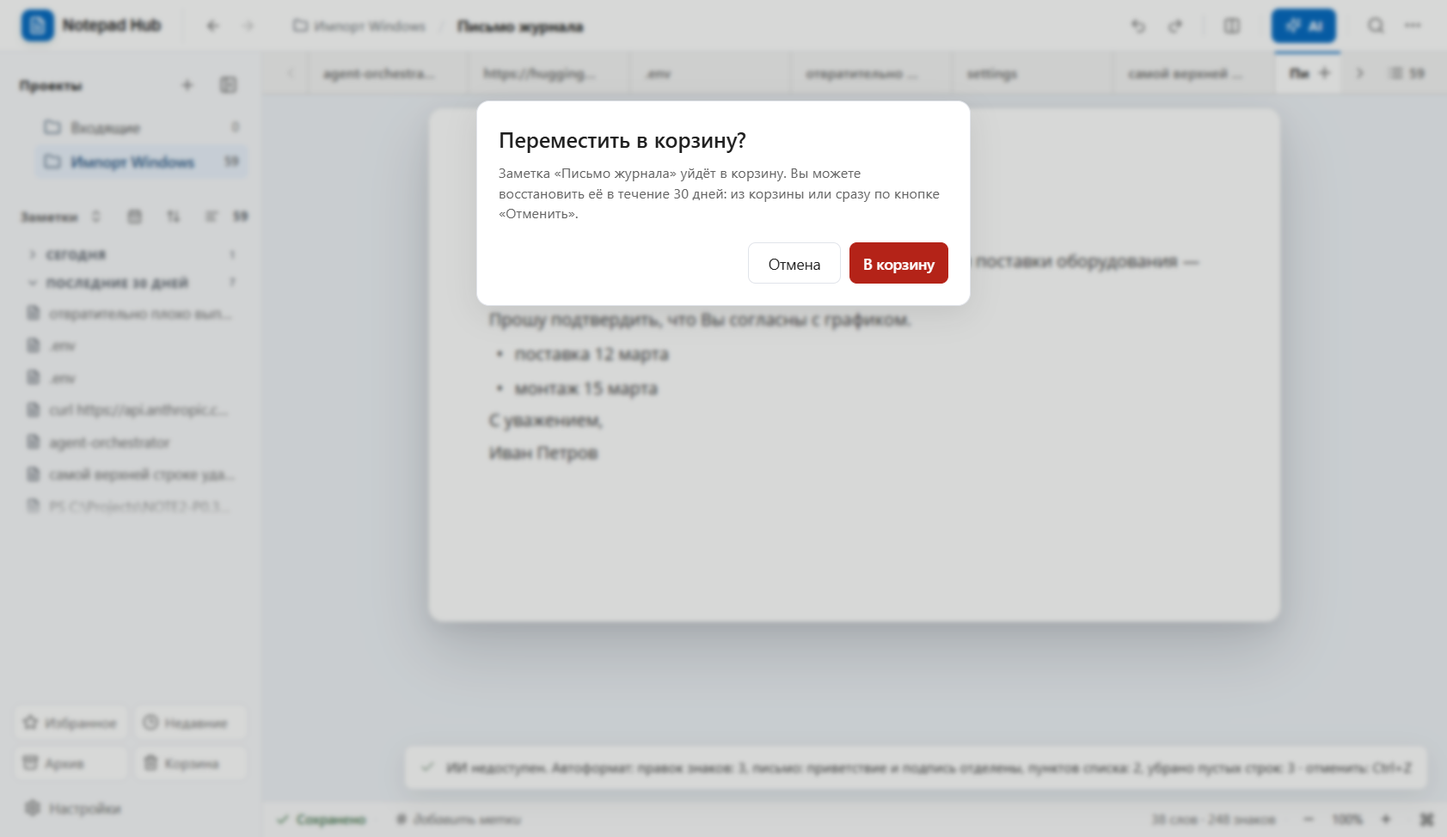
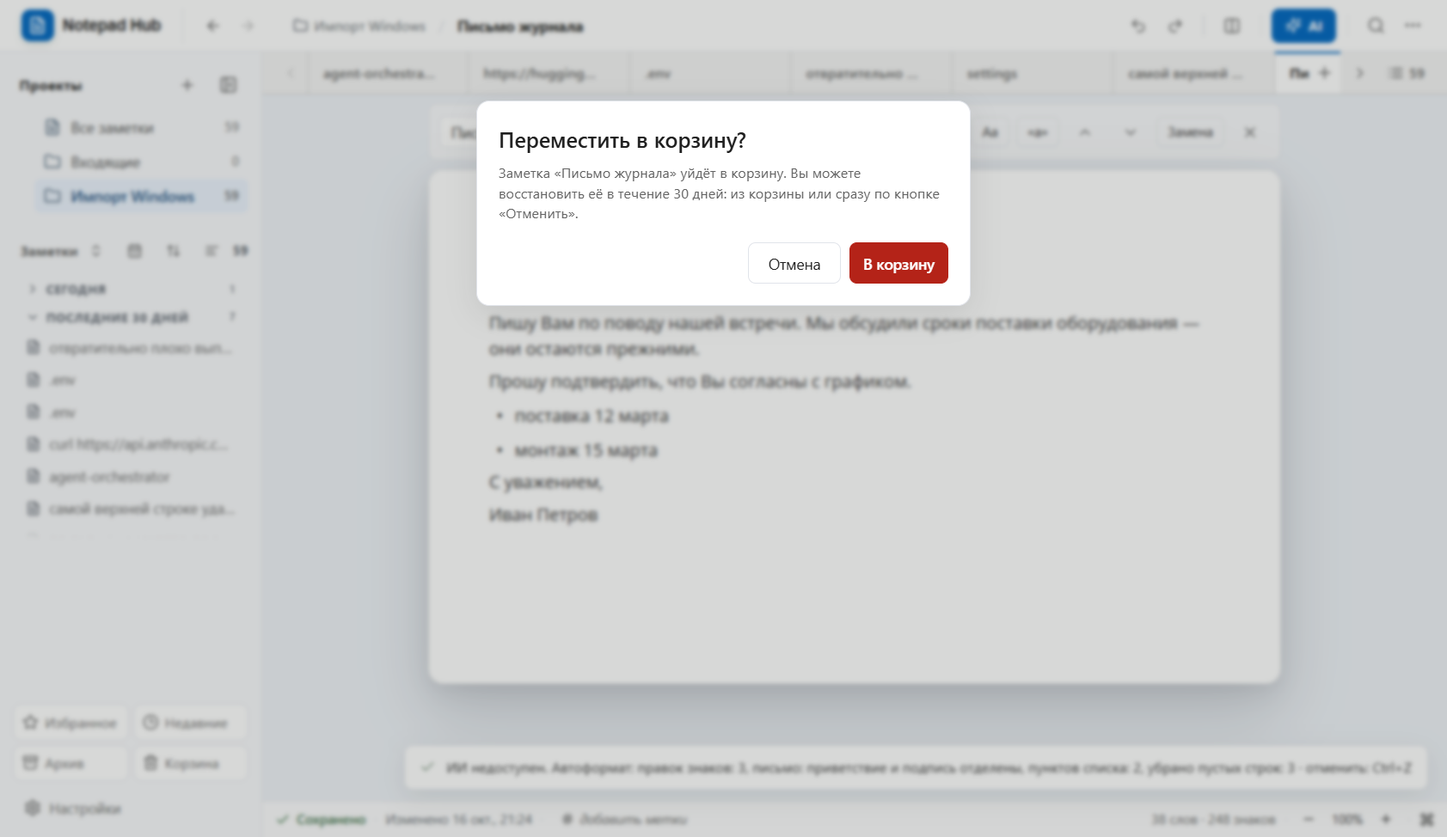
QuickNote ideas: all notes row, found word lit in the opened note, modified time, focus mode (F11)

diff --git a/ui/src/App.tsx b/ui/src/App.tsx
@@ -334,13 +334,14 @@ export default function App({ initial, sync }: { initial: LoadedHost; sync: Host
   }, [docs]);
   const [query, setQuery] = useState("");
   const [folder, setFolder] = useState(initialState.folder);
-  const [noteView, setNoteView] = useState<"folder" | "pinned" | "recent" | "archive" | "trash">("folder");
+  const [noteView, setNoteView] = useState<"folder" | "all" | "pinned" | "recent" | "archive" | "trash">("folder");
   const [folders, setFolders] = useState(initialState.folders);
   const [parents, setParents] = useState<Record<string, string>>(initial.parents);
   const [closedProjects, setClosedProjects] = useState<string[]>(() => { try { const v = JSON.parse(window.localStorage.getItem("nh4-closed-projects") ?? "[]") as unknown; return Array.isArray(v) ? v.filter((x): x is string => typeof x === "string") : []; } catch { return []; } });
   const [subNotes, setSubNotes] = useState(() => { try { return window.localStorage.getItem("nh4-sub-notes") !== "0"; } catch { return true; } });
   const [dense, setDense] = useState(() => { try { return window.localStorage.getItem("nh4-dense") === "1"; } catch { return false; } });
   useEffect(() => { try { window.localStorage.setItem("nh4-closed-projects", JSON.stringify(closedProjects)); window.localStorage.setItem("nh4-sub-notes", subNotes ? "1" : "0"); window.localStorage.setItem("nh4-dense", dense ? "1" : "0"); } catch { /* optional */ } }, [closedProjects, subNotes, dense]);
+  const [focusMode, setFocusMode] = useState(false);
   const [dragProject, setDragProject] = useState<string | null>(null);
   const [dropTarget, setDropTarget] = useState<string | null>(null);
   const [dark, setDark] = useState(initialState.dark);
@@ -350,7 +351,8 @@ export default function App({ initial, sync }: { initial: LoadedHost; sync: Host
   const [zoom, setZoom] = useState(() => { try { const v = Number(localStorage.getItem("nh4-zoom")); return v >= 70 && v <= 200 ? v : 100; } catch { return 100; } });
   useEffect(() => { try { localStorage.setItem("nh4-zoom", String(zoom)); } catch { /* storage may be unavailable */ } }, [zoom]);
   const [tagFilter, setTagFilter] = useState<string | null>(null);
-  const [find, setFind] = useState<null | { replace: boolean }>(null);
+  const [find, setFind] = useState<null | { replace: boolean; term?: string }>(null);
+  const pendingFindRef = useRef("");
   const [selectedSearchIndex, setSelectedSearchIndex] = useState(0);
   const [formDialog, setFormDialog] = useState<FormDialog>(null);
   const [notice, setNotice] = useState("");
@@ -468,6 +470,7 @@ export default function App({ initial, sync }: { initial: LoadedHost; sync: Host
     if (noteView === "archive") return Boolean(doc.archived);
     if (noteView === "pinned") return Boolean(doc.pinned);
     if (noteView === "recent") return typeof doc.lastOpenedAt === "number" && !doc.archived;
+    if (noteView === "all" && dayFilter === null) return !doc.archived;
     if (dayFilter !== null) { const t = doc.modifiedAt ?? 0; return !doc.archived && t >= dayFilter && t < dayFilter + DAY_MS; }
     return !doc.archived && folderScope.has(doc.folder);
   }).sort((left, right) => noteView === "recent" || noteView === "pinned"
@@ -478,7 +481,7 @@ export default function App({ initial, sync }: { initial: LoadedHost; sync: Host
   const listNow = Date.now();
   const listDocs = noteView === "recent" || noteView === "pinned" ? filteredDocs
     : [...filteredDocs].sort((a, b) => notesSort === "title" ? a.title.localeCompare(b.title, "ru") : (b.modifiedAt ?? 0) - (a.modifiedAt ?? 0));
-  const pinnedFirst = noteView === "folder" && dayFilter === null && listDocs.some((doc) => doc.pinned);
+  const pinnedFirst = (noteView === "folder" || noteView === "all") && dayFilter === null && listDocs.some((doc) => doc.pinned);
   const listGroups: Array<{ name: string; items: DocItem[] }> = notesSort === "modified" && noteView !== "recent" && noteView !== "pinned"
     ? [...(pinnedFirst ? [{ name: "Закреплённые", items: listDocs.filter((doc) => doc.pinned) }] : []),
         ...NOTE_GROUPS.map((name) => ({ name, items: listDocs.filter((doc) => !(pinnedFirst && doc.pinned) && dateGroup(doc.modifiedAt, listNow) === name) })).filter((group) => group.items.length > 0)]
@@ -864,13 +867,15 @@ export default function App({ initial, sync }: { initial: LoadedHost; sync: Host
     setFormDialog({ kind: "move", title: `Переместить «${activeDoc.title}»`, value: activeDoc.folder, hint: `Доступные проекты: ${folders.join(", ")}` });
   }, [activeDoc, activeId, folders]);
 
-  const switchToSpecialView = useCallback((view: "pinned" | "recent" | "archive" | "trash") => {
+  const switchToSpecialView = useCallback((view: "all" | "pinned" | "recent" | "archive" | "trash") => {
     setNoteView(view);
     setRailMenu(null);
     setSidebarCollapsed(window.matchMedia("(max-width: 760px)").matches);
     if (view === "trash") { setTrashPane(true); return; }   // the trash is a list in the main area; no note is opened behind it
     setTrashPane(false);
-    const firstNote = (view === "pinned"
+    const firstNote = (view === "all"
+      ? docs.filter((doc) => !doc.deletedAt && !doc.archived).sort((a, b) => (b.modifiedAt ?? 0) - (a.modifiedAt ?? 0))
+      : view === "pinned"
       ? docs.filter((doc) => doc.pinned && !doc.deletedAt)
       : view === "recent"
         ? docs.filter((doc) => typeof doc.lastOpenedAt === "number" && !doc.deletedAt && !doc.archived).sort((a, b) => (b.lastOpenedAt ?? 0) - (a.lastOpenedAt ?? 0))
@@ -1691,6 +1696,7 @@ export default function App({ initial, sync }: { initial: LoadedHost; sync: Host
     { id: "properties", label: activeInspector === "properties" ? "Закрыть свойства" : "Открыть свойства", hint: "Свойства текущей заметки", keywords: "свойства метка папка", icon: ChevronDown, disabled: !activeDoc, run: () => setActiveInspector((current) => current === "properties" ? null : "properties") },
     { id: "rename", label: "Переименовать заметку", hint: "Изменить название", keywords: "переименовать название", icon: Pencil, disabled: !activeDoc, run: () => activeDoc && setFormDialog({ kind: "rename", title: "Переименовать заметку", value: activeDoc.title, hint: "Название заметки" }) },
     { id: "move", label: "Переместить заметку", hint: "Выбрать проект", keywords: "переместить папка проект", icon: FolderInput, disabled: !activeDoc, run: () => moveActiveNote() },
+    { id: "focus", label: "Режим фокуса", hint: "Скрыть панели и писать без отвлечений", keywords: "фокус zen без отвлечений полноэкранный", icon: Eye, shortcut: "F11", run: () => setFocusMode(true) },
     { id: "pin", label: activeDoc?.pinned ? "Открепить заметку" : "Закрепить заметку", hint: "Избранное", keywords: "закрепить открепить pin", icon: activeDoc?.pinned ? PinOff : Pin, disabled: !activeDoc || Boolean(activeDoc.deletedAt), run: () => togglePinActiveNote() },
     { id: "archive", label: activeDoc?.archived ? "Вернуть из архива" : "Переместить в архив", hint: "Изменить состояние заметки", keywords: "архив архивировать вернуть", icon: Archive, disabled: !activeDoc, run: () => archiveActiveNote() },
     { id: "trash", label: "Переместить в корзину", hint: "Можно восстановить позже", keywords: "корзина удалить", icon: Trash2, disabled: !activeDoc, run: () => deleteActiveNote() },
@@ -1761,7 +1767,7 @@ export default function App({ initial, sync }: { initial: LoadedHost; sync: Host
     setNotice(`Источник ${citation.marker}: ${citation.label}`);
   }, [editor]);
 
-  useEffect(() => { setFind(null); }, [activeId]);
+  useEffect(() => { const term = pendingFindRef.current; pendingFindRef.current = ""; setFind(term ? { replace: false, term } : null); }, [activeId]);
 
   const noteStats = useMemo(() => {
     // the visible text only: list marks, heading marks and blank lines are not counted
@@ -1903,6 +1909,8 @@ export default function App({ initial, sync }: { initial: LoadedHost; sync: Host
   }, [importTextFile]);
 
   const chooseSearchResult = useCallback((doc: DocItem) => {
+    const word = query.trim().split(/\s+/).find((w) => w.length >= 2 && !w.startsWith(">")) ?? "";
+    if (word && doc.id === activeIdRef.current) setFind({ replace: false, term: word }); else pendingFindRef.current = word;
     setNoteView(doc.archived ? "archive" : "folder");
     setFolder(doc.folder);
     selectDocument(doc);
@@ -1910,7 +1918,7 @@ export default function App({ initial, sync }: { initial: LoadedHost; sync: Host
     setQuery("");
     setSelectedSearchIndex(0);
     window.setTimeout(restoreSearchFocus, 0);
-  }, [restoreSearchFocus, selectDocument]);
+  }, [query, restoreSearchFocus, selectDocument]);
 
   // back and forward through the notes opened one after another (Alt + left / right)
   useEffect(() => {
@@ -2126,6 +2134,7 @@ export default function App({ initial, sync }: { initial: LoadedHost; sync: Host
 
   useEffect(() => {
     const keyHandler = (event: KeyboardEvent) => {
+      if (event.key === "F11") { event.preventDefault(); setFocusMode((v) => !v); return; }
       if (event.altKey && !event.ctrlKey && !event.shiftKey && !event.metaKey && (event.key === "ArrowLeft" || event.key === "ArrowRight")) { event.preventDefault(); goHistoryRef.current(event.key === "ArrowLeft" ? -1 : 1); return; }
       const action = matchShortcut(event);
       if (!action) return;
@@ -2284,7 +2293,7 @@ export default function App({ initial, sync }: { initial: LoadedHost; sync: Host
     for (const doc of docs) if (!doc.deletedAt) for (const tag of parseTags(tags[doc.id])) counts.set(tag, (counts.get(tag) ?? 0) + 1);
     return [...counts.entries()].sort((a, b) => b[1] - a[1] || a[0].localeCompare(b[0], "ru"));
   }, [docs, tags]);
-  const viewTitle = noteView === "folder" ? folder : noteView === "trash" ? "Корзина" : noteView === "archive" ? "Архив" : noteView === "pinned" ? "Закреплённые" : "Недавние";
+  const viewTitle = noteView === "folder" ? folder : noteView === "trash" ? "Корзина" : noteView === "archive" ? "Архив" : noteView === "pinned" ? "Закреплённые" : noteView === "all" ? "Все заметки" : "Недавние";
   const saveFailed = /не сохранен/i.test(savedAt);
   const saveState: "saved" | "saving" | "error" = saveFailed ? "error" : /^Сохраняем|^Сохраняется/.test(savedAt) ? "saving" : "saved";
   const noteTagList = activeDoc ? parseTags(tags[activeDoc.id]) : [];
@@ -2292,7 +2301,7 @@ export default function App({ initial, sync }: { initial: LoadedHost; sync: Host
   const noteMenuClose = (event: React.MouseEvent<HTMLDivElement>) => { if ((event.target as HTMLElement).closest("button")) event.currentTarget.closest("details")?.removeAttribute("open"); };
 
   return (
-    <div className={`app-shell${dark ? " theme-dark" : ""}${activeInspector === "ai" ? " ai-open" : ""}`} style={{ "--ai-w": `${aiWidth}px` } as React.CSSProperties}>
+    <div className={`app-shell${focusMode ? " is-focus" : ""}${dark ? " theme-dark" : ""}${activeInspector === "ai" ? " ai-open" : ""}`} style={{ "--ai-w": `${aiWidth}px` } as React.CSSProperties}>
       <header className="topbar">
         <div className="tb-nav" role="group" aria-label="Навигация">
         <div className="brand-lockup"><div className="brand-mark"><FileText size={17} strokeWidth={2.1} /></div><span>Notepad Hub</span></div>
@@ -2351,6 +2360,7 @@ export default function App({ initial, sync }: { initial: LoadedHost; sync: Host
                 <div className="note-toolbar-menu-divider" />
                 <button disabled={!activeDoc || !isHosted()} onClick={() => void openHistory()}><Clock3 size={14} />История версий…</button>
                 <button disabled={!activeDoc} onClick={() => setActiveInspector((current) => current === "properties" ? null : "properties")}><Info size={14} />Содержание и свойства</button>
+                <button onClick={() => setFocusMode(true)}><Eye size={14} />Режим фокуса<kbd className="menu-key">F11</kbd></button>
                 {canUndoAi && <button onClick={undoAcceptedAi}><RotateCcw size={14} />Отменить AI-изменение</button>}
                 <div className="note-toolbar-menu-divider" />
                 {activeDoc?.deletedAt ? <><button onClick={restoreActiveNote}><RotateCcw size={14} />Восстановить</button><button className="destructive-action" onClick={permanentlyDeleteActiveNote}><Trash2 size={14} />Удалить навсегда</button></> : <><button disabled={!activeDoc} onClick={duplicateActiveNote}><Copy size={14} />Создать копию</button><button disabled={!activeDoc} onClick={archiveActiveNote}><Archive size={14} />{activeDoc?.archived ? "Вернуть в проект" : "В архив"}</button><div className="note-toolbar-menu-divider" /><button disabled={!activeDoc} className="destructive-action" onClick={deleteActiveNote}><Trash2 size={14} />В корзину</button></>}
@@ -2366,6 +2376,7 @@ export default function App({ initial, sync }: { initial: LoadedHost; sync: Host
           <section className={`nav-section projects-section${dragProject ? " is-dragging" : ""}${dropTarget === "" ? " is-drop-root" : ""}`} aria-labelledby="projects-heading"
             onDragOver={(event) => { if (dragProject) { event.preventDefault(); setDropTarget(""); } }}
             onDrop={(event) => { if (dragProject) { event.preventDefault(); moveProjectTo(dragProject, ""); setDragProject(null); setDropTarget(null); } }}>
+            <div className="folder-item"><span className="folder-fold-gap" aria-hidden="true" /><button className={`folder-row all-row${noteView === "all" ? " selected" : ""}`} aria-current={noteView === "all" ? "page" : undefined} onClick={() => switchToSpecialView("all")}><FileText size={16} className="folder-icon" /><span>Все заметки</span><span className="folder-count">{docs.filter((doc) => !doc.deletedAt && !doc.archived).length}</span></button></div>
             {projectRows(folders, parents, closedProjects).map(({ name, depth, hasChildren }) => {
               const system = SYSTEM_PROJECTS.includes(name);
               const scope = subNotes ? projectScope(name, parents) : new Set([name]);
@@ -2386,7 +2397,7 @@ export default function App({ initial, sync }: { initial: LoadedHost; sync: Host
             })}
           </section>
           <section className="nav-section notes-section" aria-label="Заметки раздела">
-            <div className="section-label"><h2>{noteView === "trash" ? "Корзина" : noteView === "archive" ? "Архив" : noteView === "pinned" ? "Избранное" : noteView === "recent" ? "Недавние" : "Заметки"}</h2><span className="notes-tools">{dayFilter !== null && <button type="button" className="day-chip" title="Показать все заметки проекта" onClick={() => setDayFilter(null)}>{new Date(dayFilter).getDate()} {MONTHS_GEN[new Date(dayFilter).getMonth()]} <X size={11} aria-hidden="true" /></button>}{listGroups.some((g) => g.name) && <button type="button" className="icon-button tiny" aria-label="Свернуть или развернуть все группы" title="Свернуть или развернуть все группы" onClick={() => setClosedGroups((current) => current.length > 0 ? [] : listGroups.map((g) => g.name).filter(Boolean))}><ChevronsUpDown size={14} /></button>}<button type="button" className={`icon-button tiny${dayFilter !== null || calendarOpen ? " is-on" : ""}`} aria-label="Календарь: заметки по дням" aria-expanded={calendarOpen} title="Календарь: заметки по дням" onClick={() => setCalendarOpen((open) => !open)}><CalendarDays size={14} /></button><button type="button" className="icon-button tiny" aria-label={notesSort === "modified" ? "Сортировка: по изменению. Нажмите, чтобы сортировать по названию" : "Сортировка: по названию. Нажмите, чтобы сортировать по изменению"} title={notesSort === "modified" ? "Сначала изменённые: нажмите для сортировки по названию" : "По названию: нажмите для сортировки по изменению"} onClick={() => { const next = notesSort === "modified" ? "title" : "modified"; setNotesSort(next); try { window.localStorage.setItem("nh4-notes-sort", next); } catch { /* optional */ } }}><ArrowUpDown size={14} /></button><button type="button" className={`icon-button tiny${notesPreview ? " is-on" : ""}`} aria-pressed={notesPreview} aria-label="Показывать начало текста под названием" title="Начало текста под названием" onClick={() => { const next = !notesPreview; setNotesPreview(next); try { window.localStorage.setItem("nh4-notes-preview", next ? "1" : "0"); } catch { /* optional */ } }}><AlignLeft size={14} /></button><span className="notes-count">{filteredDocs.length}</span></span></div>
+            <div className="section-label"><h2>{noteView === "trash" ? "Корзина" : noteView === "archive" ? "Архив" : noteView === "pinned" ? "Избранное" : noteView === "recent" ? "Недавние" : noteView === "all" ? "Все заметки" : "Заметки"}</h2><span className="notes-tools">{dayFilter !== null && <button type="button" className="day-chip" title="Показать все заметки проекта" onClick={() => setDayFilter(null)}>{new Date(dayFilter).getDate()} {MONTHS_GEN[new Date(dayFilter).getMonth()]} <X size={11} aria-hidden="true" /></button>}{listGroups.some((g) => g.name) && <button type="button" className="icon-button tiny" aria-label="Свернуть или развернуть все группы" title="Свернуть или развернуть все группы" onClick={() => setClosedGroups((current) => current.length > 0 ? [] : listGroups.map((g) => g.name).filter(Boolean))}><ChevronsUpDown size={14} /></button>}<button type="button" className={`icon-button tiny${dayFilter !== null || calendarOpen ? " is-on" : ""}`} aria-label="Календарь: заметки по дням" aria-expanded={calendarOpen} title="Календарь: заметки по дням" onClick={() => setCalendarOpen((open) => !open)}><CalendarDays size={14} /></button><button type="button" className="icon-button tiny" aria-label={notesSort === "modified" ? "Сортировка: по изменению. Нажмите, чтобы сортировать по названию" : "Сортировка: по названию. Нажмите, чтобы сортировать по изменению"} title={notesSort === "modified" ? "Сначала изменённые: нажмите для сортировки по названию" : "По названию: нажмите для сортировки по изменению"} onClick={() => { const next = notesSort === "modified" ? "title" : "modified"; setNotesSort(next); try { window.localStorage.setItem("nh4-notes-sort", next); } catch { /* optional */ } }}><ArrowUpDown size={14} /></button><button type="button" className={`icon-button tiny${notesPreview ? " is-on" : ""}`} aria-pressed={notesPreview} aria-label="Показывать начало текста под названием" title="Начало текста под названием" onClick={() => { const next = !notesPreview; setNotesPreview(next); try { window.localStorage.setItem("nh4-notes-preview", next ? "1" : "0"); } catch { /* optional */ } }}><AlignLeft size={14} /></button><span className="notes-count">{filteredDocs.length}</span></span></div>
             <ul className="notes-list">
               {listGroups.map((group) => <Fragment key={group.name || "all"}>
                 {group.name && <li className="notes-group"><button type="button" aria-expanded={!closedGroups.includes(group.name)} onClick={() => setClosedGroups((current) => current.includes(group.name) ? current.filter((x) => x !== group.name) : [...current, group.name])}><ChevronDown size={13} className="notes-group-chevron" aria-hidden="true" />{group.name}<small>{group.items.length}</small></button></li>}
@@ -2472,6 +2483,7 @@ export default function App({ initial, sync }: { initial: LoadedHost; sync: Host
         </div></div>}
 
         <main className="main-panel">
+          {focusMode && <button type="button" className="focus-exit" onClick={() => setFocusMode(false)} title="Вернуть панели (F11)"><X size={14} aria-hidden="true" />Выйти из режима фокуса</button>}
           <div className="document-tabs">
             {tabsEdge.overflow && <button type="button" className="tabs-arrow" aria-label="Прокрутить вкладки влево" title="Влево" disabled={!tabsEdge.left} onClick={() => tabsScrollerRef.current?.scrollBy({ left: -280, behavior: "smooth" })}><ChevronLeft size={16} /></button>}
             <div className="tabs-scroller" ref={tabsScrollerRef}>
@@ -2502,7 +2514,7 @@ export default function App({ initial, sync }: { initial: LoadedHost; sync: Host
           </div>}
           <div id="editor-workspace-panel" className={`editor-scroll${secondId ? " is-split" : ""}`} hidden={!activeDoc || trashPane} role="tabpanel" aria-label={activeDoc ? undefined : "Редактор заметки"} aria-labelledby={activeDoc ? `note-tab-${activeDoc.id}` : undefined} tabIndex={0}>
             <div className="editor-column">
-              {find && <FindBar host={editor._tiptapEditor as unknown as FindHost} withReplace={find.replace} onClose={() => { setFind(null); editor.focus(); }} onToggleReplace={() => setFind((c) => c && ({ replace: !c.replace }))} />}
+              {find && <FindBar host={editor._tiptapEditor as unknown as FindHost} initialTerm={find.term} withReplace={find.replace} onClose={() => { setFind(null); editor.focus(); }} onToggleReplace={() => setFind((c) => c && ({ replace: !c.replace }))} />}
               <div className="editor-card" style={{ "--editor-zoom": zoom / 100 } as React.CSSProperties} onDragOver={(e) => { if (e.dataTransfer.types.includes("Files")) e.preventDefault(); }} onDrop={(e) => void handleDrop(e)}><BlockNoteView editor={editor} theme={dark ? "dark" : "light"} onChange={handleEditorChange} slashMenu sideMenu={false} /></div>
               {activeDoc && (() => {
                 const outgoing = linkIndex.outgoing(activeDoc.id);
@@ -2526,6 +2538,7 @@ export default function App({ initial, sync }: { initial: LoadedHost; sync: Host
           <footer className="statusbar" aria-label="Служебная строка">
             <div className="status-left">
               <span className={`status-save is-${saveState}`} role="status" aria-live="polite" title={savedAt}>{saveState === "saved" ? <Check size={14} aria-hidden="true" /> : saveState === "saving" ? <LoaderCircle size={14} className="ai-spinner" aria-hidden="true" /> : <CircleAlert size={14} aria-hidden="true" />}{saveState === "saved" ? "Сохранено" : saveState === "saving" ? "Сохраняется…" : "Не сохранено"}{saveState === "error" && <small>{savedAt.replace(/^Не сохранено:?\s*/i, "").slice(0, 70)}</small>}</span>
+              {activeDoc?.modifiedAt && <><span className="status-divider" aria-hidden="true">·</span><span className="status-modified" title="Когда заметку изменили в последний раз">Изменено {new Date(activeDoc.modifiedAt).toLocaleString("ru-RU", { day: "numeric", month: "short", hour: "2-digit", minute: "2-digit" })}</span></>}
               {activeDoc && backlinkCount > 0 && <><span className="status-divider" aria-hidden="true">·</span><button className="status-links" title="Заметки, которые ссылаются на эту: показать" onClick={() => { const panel = document.querySelector<HTMLDetailsElement>(".links-panel"); if (panel) { panel.open = true; panel.scrollIntoView({ block: "center", behavior: "smooth" }); } }}><Link2 size={13} aria-hidden="true" />Обратных ссылок: {backlinkCount}</button></>}
               {activeDoc && <><span className="status-divider" aria-hidden="true">·</span>
               <button className="status-tags" title="Метки заметки: изменить" onClick={() => setFormDialog({ kind: "tag", title: "Метки заметки", value: tags[activeDoc.id] ?? "", hint: "Метки через запятую" })}><Hash size={13} aria-hidden="true" />{noteTagList.length > 0 ? noteTagList.map((tag) => <span key={tag} className="status-tag">{tag}</span>) : <span className="status-tags-empty">добавить метки</span>}</button></>}

diff --git a/ui/src/components/FindBar.tsx b/ui/src/components/FindBar.tsx
@@ -15,8 +15,8 @@ export type FindHost = {
   off: (event: "transaction", cb: () => void) => void;
 };
 
-export function FindBar({ host, withReplace, onClose, onToggleReplace }: { host: FindHost; withReplace: boolean; onClose: () => void; onToggleReplace: () => void }) {
-  const [term, setTerm] = useState("");
+export function FindBar({ host, withReplace, initialTerm, onClose, onToggleReplace }: { host: FindHost; withReplace: boolean; initialTerm?: string; onClose: () => void; onToggleReplace: () => void }) {
+  const [term, setTerm] = useState(initialTerm ?? "");
   const [replacement, setReplacement] = useState("");
   const [caseSensitive, setCaseSensitive] = useState(false);
   const [wholeWord, setWholeWord] = useState(false);
@@ -28,8 +28,8 @@ export function FindBar({ host, withReplace, onClose, onToggleReplace }: { host:
   useEffect(() => {
     const refresh = () => setTick((n) => n + 1);
     host.on("transaction", refresh);
-    inputRef.current?.focus();
-    inputRef.current?.select();
+    if (initialTerm) (host.commands as unknown as Record<string, (a?: unknown) => boolean>).setSearchTerm(initialTerm);
+    else { inputRef.current?.focus(); inputRef.current?.select(); }
     return () => {
       host.off("transaction", refresh);
       (host.commands as unknown as Record<string, () => boolean>).clearSearch();

diff --git a/ui/src/layout-v4.css b/ui/src/layout-v4.css
@@ -770,3 +770,10 @@
 .app-shell .sidebar.is-dense .notes-list button { height: 26px; font-size: 13px; }
 .app-shell .sidebar.is-dense .notes-list button:has(.note-snippet) { height: 38px; }
 .app-shell .sidebar.is-dense .folder-item .folder-row { height: 28px; }
+
+/* v4.10 focus mode (F11), all-notes row, modified time */
+.app-shell.is-focus .sidebar, .app-shell.is-focus .topbar, .app-shell.is-focus .document-tabs, .app-shell.is-focus .statusbar { display: none; }
+.app-shell.is-focus .workspace { grid-template-columns: 1fr; }
+.app-shell.is-focus .focus-exit { position: fixed; top: 10px; right: 14px; z-index: var(--z-popover); display: inline-flex; align-items: center; gap: 6px; height: 30px; padding: 0 12px; border: 1px solid var(--line-strong); border-radius: 15px; background: var(--surface); color: var(--ink-soft); font: inherit; font-size: 12.5px; cursor: pointer; opacity: 0.55; }
+.app-shell.is-focus .focus-exit:hover, .app-shell.is-focus .focus-exit:focus-visible { opacity: 1; }
+.app-shell .status-modified { color: var(--ink-quiet); white-space: nowrap; }

diff --git a/docs/design/2026-10-16-analogue-obsidian.md b/docs/design/2026-10-16-analogue-obsidian.md
@@ -72,3 +72,19 @@
 | Колонки свойств в списке | Не нужны: группы по дню и начало текста закрывают задачу | не переносим |
 
 Проверка гармонии: на экране три уровня (проекты → заметки → разделы), все кнопки управления деревом видны только при наведении, строка проекта выше строки заметки на 2 px и не нагружена значками. Перетаскивание не заменяет клавиатуру: вложить проект можно только мышью, это остаётся недоработкой.
+
+
+## 2026-10-17: аналог QuickNote AI (снимок владельца)
+
+Что в нём есть: широкий поиск с «Ctrl K», кнопка «Улучшить текст», режим «Фокус», слева разделы со счётчиками (Все, Сегодня, Неделя, Избранное, Архив, Корзина), темы с цветными точками, карточки заметок (название, начало, тема, дата, срок хранения), «Хранение: день, неделя, месяц, всегда» с автоматическим уходом заметки, строка «Обновлено …», найденное слово подсвечено в тексте.
+
+| Идея | Решение | Почему |
+|---|---|---|
+| Режим «Фокус» | Перенесено (F11, «⋯», палитра): скрывает панели, остаётся текст и кнопка выхода | действие над видом; один выход, в одном месте |
+| «Все заметки» со счётчиком | Перенесено строкой над проектами | у нас не было просмотра всех заметок сразу |
+| Подсветка найденного слова в заметке | Перенесено: из поиска заметка открывается с панелью «Найти», слово подсвечено | связывает поиск с текстом |
+| «Обновлено …» | Перенесено в нижнюю строку | служебные данные живут внизу |
+| Хранение с автоуходом заметки | Не переносим без решения владельца: автоматическое удаление или архивирование опасно для данных | вопрос владельцу: нужен ли автоархив (не удаление) через N дней |
+| Сегодня и Неделя как разделы | Не переносим: календарь и группы по дню уже закрывают | дубль |
+| Кнопка «Новая заметка» крупно, «Улучшить текст» в верхней строке | Не переносим | владелец убрал кнопку; ИИ живёт в панели ИИ (R2) |
+| Карточки с темой и датой | Не переносим: режим «начало текста» и группы по дню уже дают то же | не усложнять список |

diff --git a/docs/OWNER_REQUIREMENTS.md b/docs/OWNER_REQUIREMENTS.md
@@ -34,6 +34,7 @@
 | R27 | 2026-10-17 | «реализуй все запрашиваемые решения»: проекты вкладываются друг в друга (дерево), как папки в Notebook Navigator | `NoteStore.MoveProject`, `ParentId` в `projects.json`; в списке «Проекты» отступ, стрелка сворачивания, кнопка «вложенный проект» при наведении, перетаскивание (на проект — вложить, под список — на верхний уровень) | `NoteStoreTests.cs`, `hostSync.test.mjs`, `ideas-e2e.mjs` |
 | R28 | 2026-10-17 | Настройки вида списка в «Настройках приложения»: «Заметки вложенных проектов» (по умолчанию включено), «Компактный список»; закреплённые заметки проекта — первая группа списка | `App.tsx`, `layout-v4.css` | `ideas-e2e.mjs` |
 | R29 | 2026-10-17 | «Заметка N» нумеруется только у заметок, которым имя дало приложение; заметка, названная человеком «Заметка 77», не меняется | `App.tsx` (`nh4-auto-name-ids`) | `ideas-e2e.mjs`, `layout-e2e.mjs` |
+| R30 | 2026-10-17 | Из разбора QuickNote AI: строка «Все заметки» над проектами; открытая из поиска заметка сразу подсвечивает найденное слово; «Изменено …» в нижней строке; режим фокуса (F11, меню «⋯», палитра команд) | `App.tsx`, `FindBar.tsx`, `layout-v4.css` | `ideas-e2e.mjs` |
 
 ## Общие правила
 1. Одно действие в одном месте. Перед добавлением кнопки найти все такие же действия (`grep` по подписям) и убрать дубли.

diff --git a/docs/evidence/journey.md b/docs/evidence/journey.md
@@ -1,6 +1,6 @@
 # Журнал сквозного сценария
 
-Хэш кода: 40ea66fa94d2e5c0
+Хэш кода: 58dd4f19275f4777
 Команда: node tests/e2e/journey-e2e.mjs src/NotepadHub.Host/bin/Debug/net8.0-windows/NotepadHub4.exe <копия профиля data-v3.zip> docs/evidence
 Код выхода: 0
 Дата: 2026-10-16
